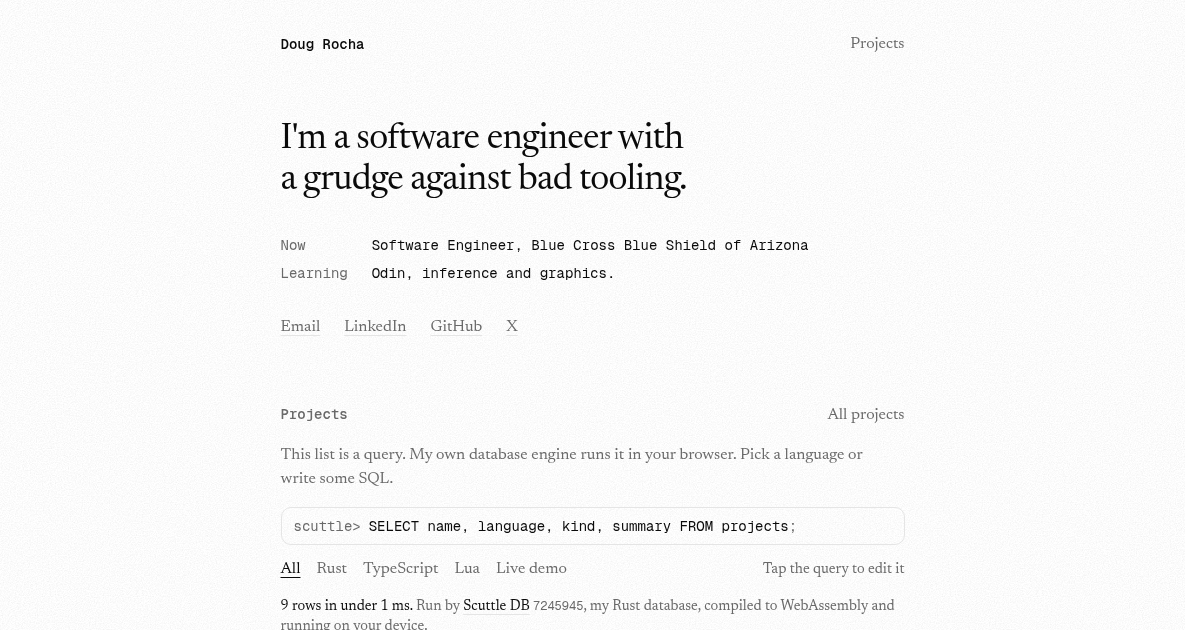
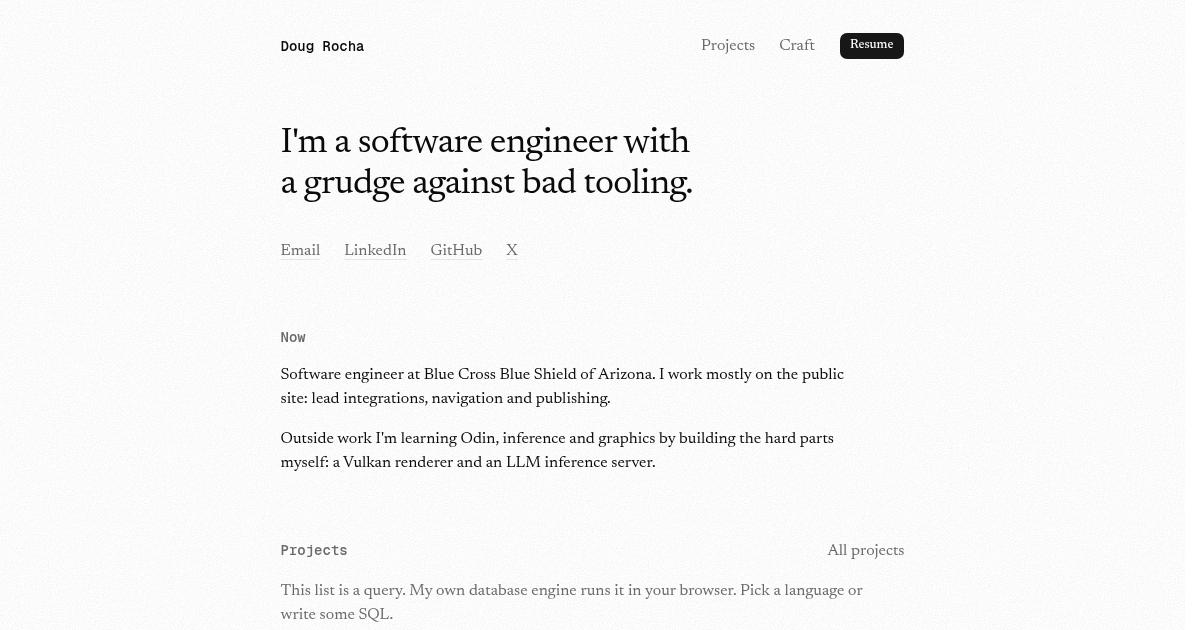
Tighten the site copy and refresh the Open Graph images
- Scuttle DB is described by its parser, planner and page-based storage, not B-tree storage.
- Markdown LSP becomes Markdown Language Server, Kura drops the Hako name, and Rust Text Editor is filed under TUI.
- The Dotfiles entries say the Odin program links the setup into place.
- The Now section, sign-off, footer and 404 page are shorter.
- The Scuttle demo uses one wording for its crash and loading messages, labels the Slang example, lists C# at work and marks Veil and Fala as active.
- Craft's page title is Craft Notes, and every Open Graph image is a fresh screenshot with matching alt text.

diff --git a/lib/content.ts b/lib/content.ts
@@ -5,13 +5,13 @@ export const site = {
   title: "Software Engineer",
   intro: "I'm a software engineer with a grudge against bad tooling.",
   now: [
-    "Software engineer at Blue Cross Blue Shield of Arizona, mostly on the public site: lead integrations, navigation and the publishing pipeline behind it.",
-    "Outside work I'm learning Odin, inference and graphics by building the hard parts myself: a Vulkan renderer, an LLM server and the tools around them.",
+    "Software engineer at Blue Cross Blue Shield of Arizona. I work mostly on the public site: lead integrations, navigation and publishing.",
+    "Outside work I'm learning Odin, inference and graphics by building the hard parts myself: a Vulkan renderer and an LLM inference server.",
   ],
-  signOff: "Build the tool you wish you had.",
+  signOff: "Made in Arizona.",
   url: "https://dougrocha.com",
   description:
-    "Doug Rocha is a software engineer building full-stack web apps, Rust tools and Odin graphics, from a database that runs in your browser to a Vulkan renderer.",
+    "Doug Rocha is a software engineer who builds Rust and Odin projects, from a database that runs in your browser to a Vulkan renderer.",
 }
 
 export const links = [
@@ -39,7 +39,7 @@ export const projects: Project[] = [
     languages: ["Rust"],
     kind: "Systems",
     summary:
-      "A relational database written from scratch, with its own SQL parser and B-tree storage.",
+      "A relational database written from scratch, with its own SQL parser, planner and page-based storage.",
     href: "/projects/scuttle-db",
     demo: true,
     featured: true,
@@ -54,10 +54,10 @@ export const projects: Project[] = [
     featured: true,
   },
   {
-    name: "Markdown LSP",
+    name: "Markdown Language Server",
     languages: ["Rust"],
     kind: "Tooling",
-    summary: "Language server for zettelkasten notes.",
+    summary: "Language server for Markdown notes with wiki links.",
     href: "https://github.com/dougrocha/rust_markdown_lsp_server",
     featured: true,
   },
@@ -95,7 +95,7 @@ export const projects: Project[] = [
   {
     name: "Rust Text Editor",
     languages: ["Rust"],
-    kind: "Learning",
+    kind: "TUI",
     summary: "Vim-style modal editor for the terminal.",
     href: "https://github.com/dougrocha/rust_text_editor",
   },
@@ -104,7 +104,7 @@ export const projects: Project[] = [
     languages: ["Rust"],
     kind: "TUI",
     summary:
-      "Tagged meme library for the terminal, built on Hako, my own TUI framework.",
+      "Tagged meme library for the terminal, built on my own TUI framework.",
     href: "https://github.com/dougrocha/kura",
   },
   {
@@ -118,7 +118,8 @@ export const projects: Project[] = [
     name: "Dotfiles",
     languages: [],
     kind: "Config",
-    summary: "My whole Linux desktop, one setup script.",
+    summary:
+      "My Linux desktop setup, linked into place by a small Odin program.",
     href: "https://github.com/dougrocha/dotfiles",
   },
 ]
@@ -141,7 +142,7 @@ export const craft: { group: string; entries: CraftEntry[] }[] = [
       {
         title: "Dotfiles",
         date: "Sep 2026",
-        note: "My Linux desktop setup, installed and linked with a small Odin program.",
+        note: "My Linux desktop setup, linked into place by a small Odin program.",
         link: {
           label: "GitHub",
           href: "https://github.com/dougrocha/dotfiles",
@@ -164,21 +165,21 @@ export const experience = [
     org: "Blue Cross Blue Shield of Arizona",
     period: "Jun 2026 to now",
     summary:
-      "Restored a third-party lead integration that had been down for months, which brought in hundreds of leads in the first two weeks. Rebuilt the site header for desktop and mobile with WAI-ARIA accessibility and full keyboard navigation. Fixed a root-cause bug in the Sitecore publishing process.",
+      "Restored a third-party lead integration that had been down for months, which brought in hundreds of leads in the first two weeks. Rebuilt the site header for desktop and mobile with WAI-ARIA accessibility and full keyboard navigation. Fixed the root cause of a Sitecore publishing bug.",
   },
   {
     role: "Software Engineer Intern",
     org: "Blue Cross Blue Shield of Arizona",
     period: "May to Nov 2025",
     summary:
-      "Consolidated duplicated search logic into a shared hook and built the Blue Card medical policy router.",
+      "Consolidated duplicated search logic into a shared hook and built the Blue Card medical-policy router.",
   },
   {
     role: "Software Engineer Intern",
     org: "Blue Cross Blue Shield of Arizona",
     period: "May to Nov 2023",
     summary:
-      "Built the forgot password flow with SMS and email codes and a magic link for recovery.",
+      "Built the forgot password flow with SMS and email codes and a magic link.",
   },
 ]
 

diff --git a/components/site-footer.tsx b/components/site-footer.tsx
@@ -1,5 +1,3 @@
-import Link from "next/link"
-
 import { VimKeys } from "@/components/vim-keys"
 import { site } from "@/lib/content"
 
@@ -7,17 +5,7 @@ export function SiteFooter() {
   return (
     <footer className="flex flex-col gap-3 border-t border-border py-8 text-sm text-muted-foreground">
       <p className="text-foreground">{site.signOff}</p>
-      <p className="max-w-prose text-pretty">
-        Set in Newsreader and Geist Mono. The project list on the home page is a
-        query against{" "}
-        <Link
-          href="/projects/scuttle-db"
-          className="rounded-sm underline decoration-border underline-offset-4 transition-colors hover:text-foreground hover:decoration-current focus-visible:ring-[3px] focus-visible:ring-ring/50 focus-visible:outline-hidden"
-        >
-          Scuttle DB
-        </Link>
-        , my own database, running in your browser.
-      </p>
+      <p>Set in Newsreader and Geist Mono.</p>
       <VimKeys />
     </footer>
   )

diff --git a/lib/scuttle-demo.ts b/lib/scuttle-demo.ts
@@ -1,13 +1,14 @@
 import { projects } from "@/lib/content"
 import { sqlText } from "@/lib/scuttle-db"
 
-const ACTIVE_PROJECTS = new Set(["Scuttle DB", "Markdown LSP"])
+const ACTIVE_PROJECTS = new Set(["Veil", "Fala"])
 
 const skills: [name: string, kind: string, atWork: boolean][] = [
   ["Rust", "language", false],
   ["Odin", "language", false],
   ["TypeScript", "language", true],
   ["Lua", "language", false],
+  ["C#", "language", true],
   ["Next.js", "framework", true],
   [".NET", "framework", true],
   ["Sitecore", "platform", true],
@@ -54,7 +55,7 @@ export const examples = [
     sql: "SELECT language, COUNT(*) AS total FROM project_languages GROUP BY language ORDER BY total DESC",
   },
   {
-    label: "Shader projects",
+    label: "Slang projects",
     sql: "SELECT p.name, p.kind FROM projects p JOIN project_languages l ON l.project = p.name WHERE l.language = 'Slang'",
   },
   {

diff --git a/components/project-query.tsx b/components/project-query.tsx
@@ -282,7 +282,7 @@ export function ProjectQuery() {
           setStatus({
             kind: "error",
             message:
-              "That query crashed the database, so it restarted with the original rows.",
+              "That query crashed the database, so it restarted with the sample data.",
           })
           return true
         }
@@ -572,7 +572,7 @@ function StatusText({
           <span>
             {engine === "failed"
               ? "Filtered in JavaScript. Scuttle DB couldn't load here."
-              : "Waking up Scuttle DB in your browser."}
+              : "Starting Scuttle DB in your browser."}
           </span>
         </>
       )

diff --git a/app/projects/scuttle-db/page.tsx b/app/projects/scuttle-db/page.tsx
@@ -9,7 +9,7 @@ const REPO = "https://github.com/dougrocha/scuttle-db"
 export const metadata: Metadata = {
   title: "Scuttle DB",
   description:
-    "A relational database written from scratch in Rust, with its own SQL parser and query planner, running in your browser through WebAssembly.",
+    "A relational database written from scratch in Rust, with its own SQL parser, planner and page-based storage, running in your browser through WebAssembly.",
   alternates: alternates("/projects/scuttle-db"),
   openGraph: openGraph("/projects/scuttle-db"),
 }

diff --git a/app/projects/page.tsx b/app/projects/page.tsx
@@ -7,7 +7,7 @@ import { alternates, openGraph } from "@/lib/metadata"
 export const metadata: Metadata = {
   title: "Projects",
   description:
-    "Rust tools, Neovim plugins and full-stack web apps by Doug Rocha, including a relational database you can query in your browser.",
+    "Rust tools, Odin graphics, Neovim plugins and full-stack web apps by Doug Rocha, including a relational database you can query in your browser.",
   alternates: alternates("/projects"),
   openGraph: openGraph("/projects"),
 }

diff --git a/app/not-found.tsx b/app/not-found.tsx
@@ -9,9 +9,7 @@ export default function NotFound() {
       <h1 className="text-2xl font-title tracking-tight text-balance">
         Page not found
       </h1>
-      <p className="text-muted-foreground">
-        This page doesn’t exist. It may have moved when the site was rebuilt.
-      </p>
+      <p className="text-muted-foreground">This page doesn’t exist.</p>
       <MissingPageQuery />
       <Link href="/" className={buttonVariants({ variant: "outline" })}>
         Go to the home page

diff --git a/components/scuttle-playground.tsx b/components/scuttle-playground.tsx
@@ -358,7 +358,7 @@ export function ScuttlePlayground() {
           className="text-sm text-muted-foreground tabular-nums empty:hidden"
         >
           {status === "loading"
-            ? "Starting database…"
+            ? "Starting Scuttle DB in your browser…"
             : (notice ?? summarize(result))}
         </p>
         {output?.kind === "error" && (

diff --git a/app/craft/page.tsx b/app/craft/page.tsx
@@ -7,7 +7,7 @@ import { craft, setup, type CraftEntry } from "@/lib/content"
 import { alternates, openGraph } from "@/lib/metadata"
 
 export const metadata: Metadata = {
-  title: "Craft",
+  title: "Craft Notes",
   description: "How Doug Rocha builds things, and the setup behind them.",
   alternates: alternates("/craft"),
   openGraph: openGraph("/craft"),
